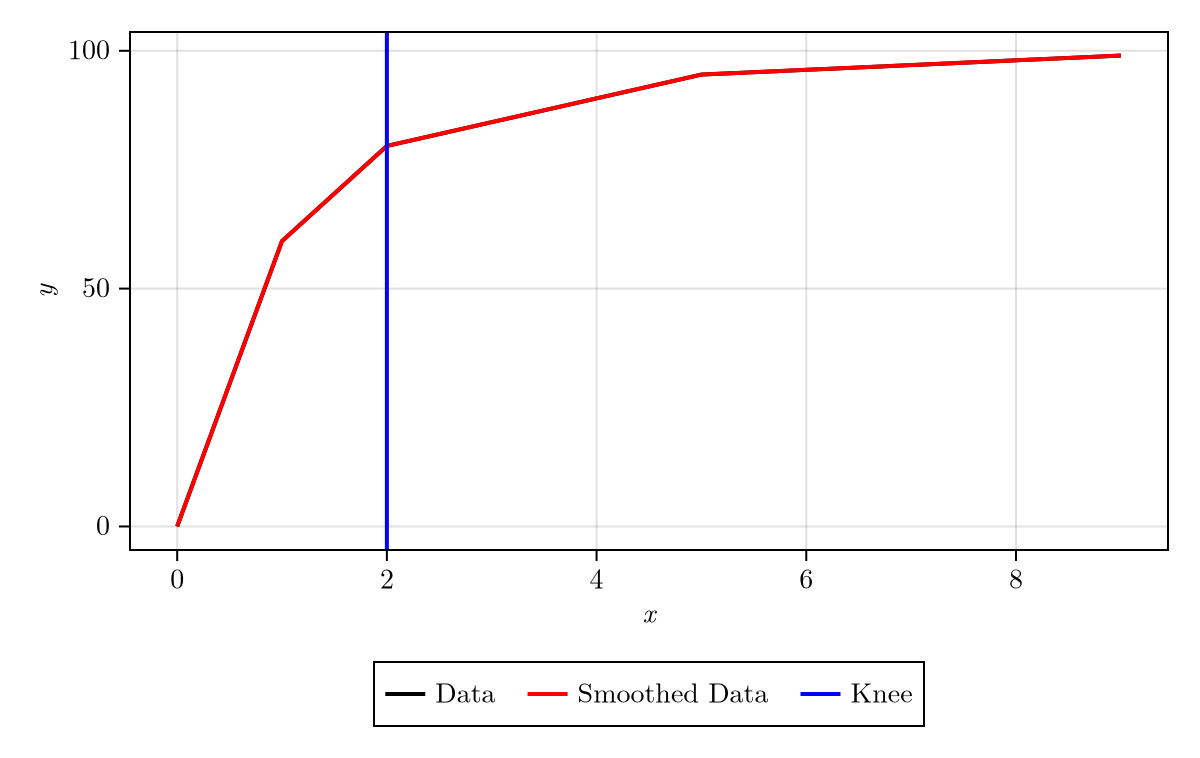
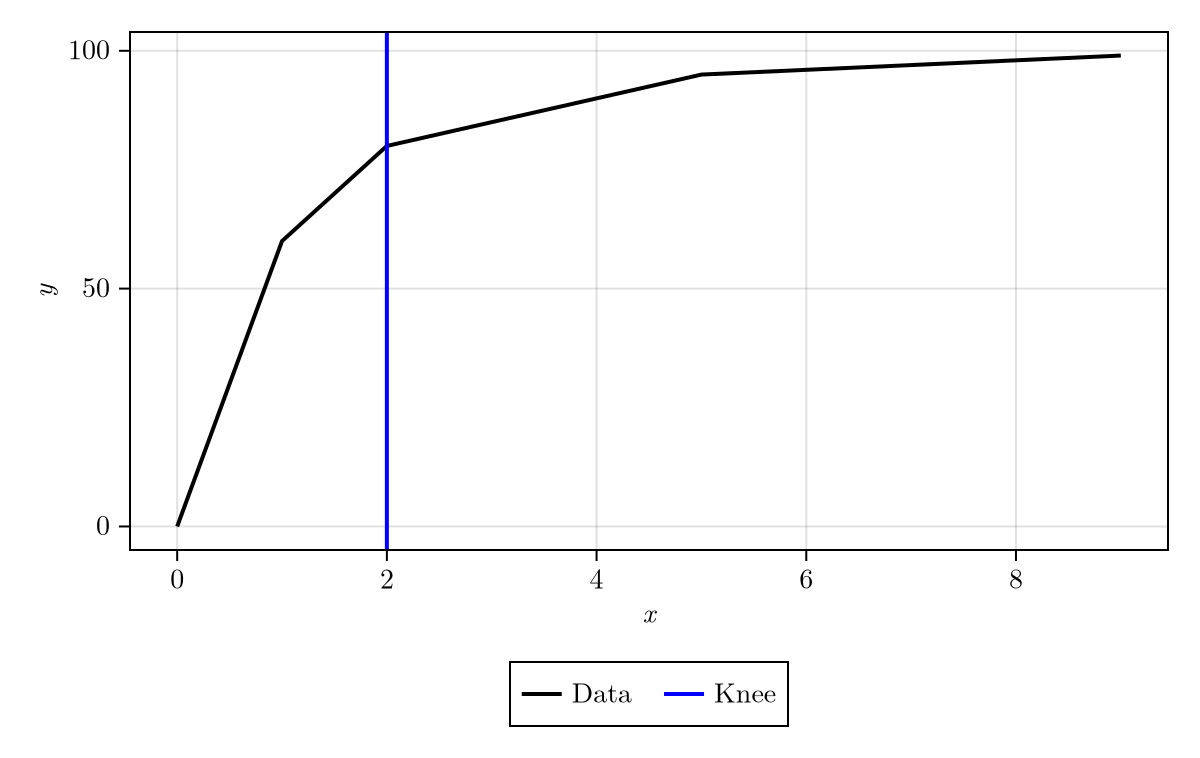
readme

diff --git a/README.md b/README.md
@@ -27,7 +27,7 @@ In order to use the plotting functionality, a Makie backend is required. For thi
 
 ```julia
 import CairoMakie
-viz(kr)
+viz(x, y, kr, show_data_smoothed = false) # we didn't use any smoothing here, so no need to show it
 ```
 
 [!["Plot"](assets/readme.png)](https://70gage70.github.io/Kneedle.jl/)
